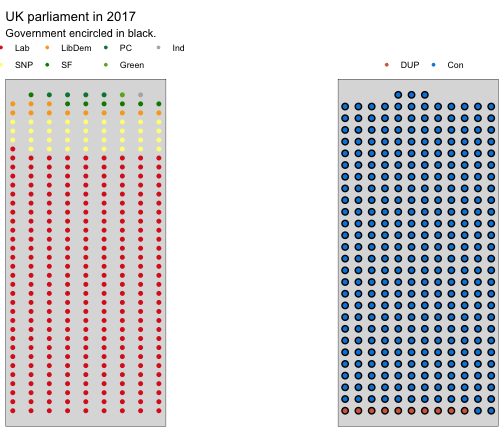
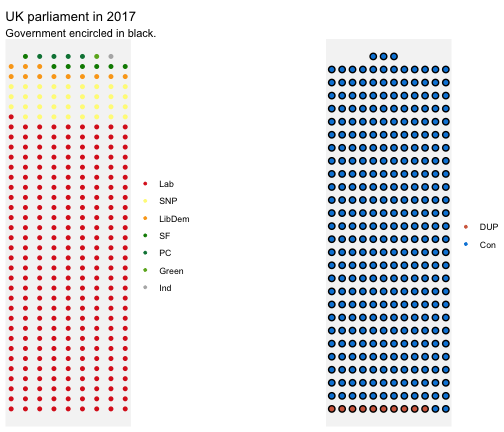
deleted l,r,t,b choices for legend in theme_ggparliament. Changed bg color for theme_ggparliament to a lighter grey"

diff --git a/README.md b/README.md
@@ -163,8 +163,7 @@ right <- ggplot(uk_17_right, aes(x,
                                  colour = party_short)) +
   geom_parliament_seats() + 
   geom_highlight_government(government == 1) + 
-  theme_ggparliament(legend = 'right',
-                     background = TRUE) +
+  theme_ggparliament(background = TRUE) +
   labs(colour = NULL) +
   scale_colour_manual(values = uk_17_right$colour, 
                       limits = uk_17_right$party_short)
@@ -175,8 +174,7 @@ left <- ggplot(uk_17_left, aes(x,
                                colour = party_short,
                                type = "opposing_benches")) +
   geom_parliament_seats() + 
-  theme_ggparliament(legend = 'left',
-                     background = TRUE) +
+  theme_ggparliament(background = TRUE) +
   labs(colour = NULL, 
        title = "UK parliament in 2017",
        subtitle="Government encircled in black.") +
@@ -219,7 +217,7 @@ au <-ggplot(australia1, aes(x,
   geom_parliament_seats() + 
   geom_highlight_government(government == 1) + 
   draw_majoritythreshold(n = 76, label = TRUE, type = 'horseshoe') + 
-  theme_ggparliament(legend = 'bottom') +
+  theme_ggparliament() +
   labs(colour = NULL, 
        title = "Australian Parliament") +
   scale_colour_manual(values = australia$colour, 
